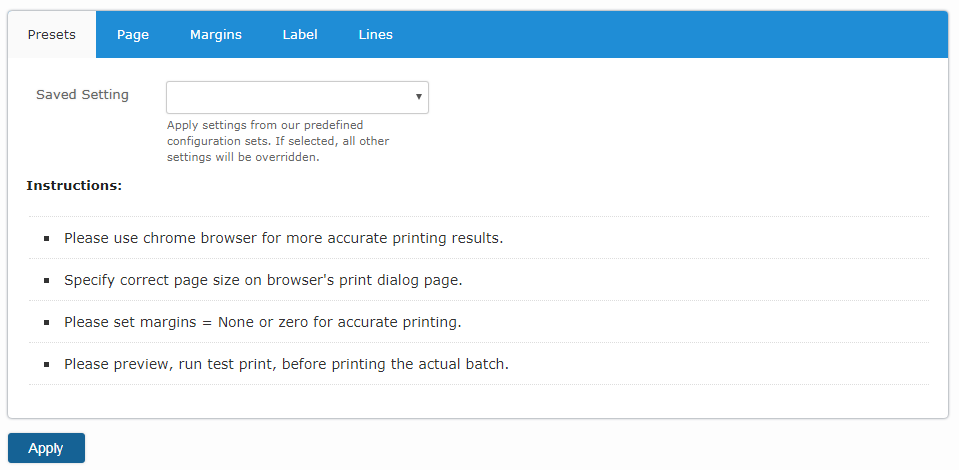
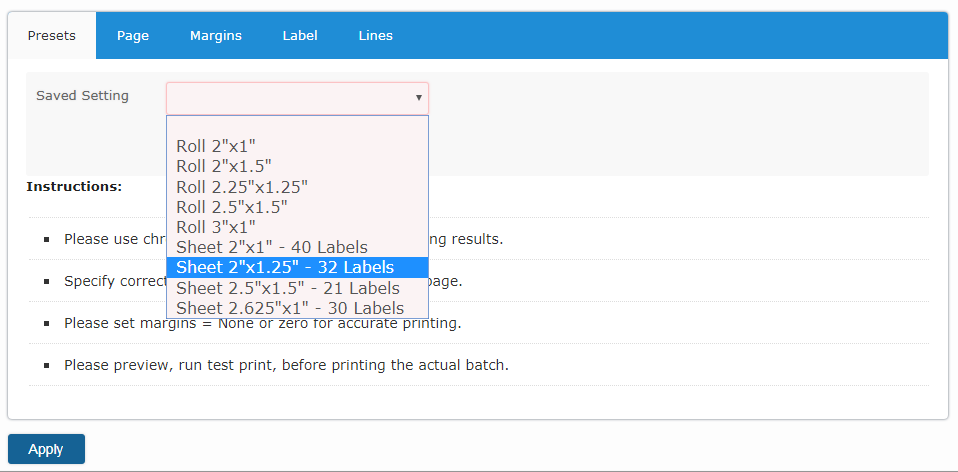
Update new barcode labels

diff --git a/docs/barcode-labels.md b/docs/barcode-labels.md
@@ -67,6 +67,7 @@ To Generate Barcodes, please follow the below steps:
 
 * Select the desired `Code Type` by default CODE 128 is selected. We suggest to use CODE 128 or CODE 39 for better scannability.
 
+     ![Barcode Labels code type](img/barcode-labels-code-type.png)
      
 
 * You can specify the `Width Factor` and `Height` for your barcode image.
@@ -105,7 +106,7 @@ To print the barcodes you have to follow the below steps:
      ![Barcode Labels page presets](img/barcode-labels-page-presets.png)
 
 
-* Select a pre configured print setting from the `Saved Setting` drop down and click `Apply`.
+* Select a pre configured print setting from the `Saved Setting` drop down and click `Apply`. We have some common label settings for Roll type and Sheet type barcode label.
 * A page will appear like below. If you come to this section later times, you will land on this print layout page by default.
 
       ![Barcode Labels print barcodes](img/barcode-labels-print-barcodes.png)
@@ -126,9 +127,10 @@ To print the barcodes you have to follow the below steps:
 
 ### Custom Print Settings
 
-* You can also apply your custom `Page Settings` to print customized barcodes.
+ You can also apply your custom `Page Settings` to print customized barcodes.
 
 
+* Click on `Page Settings` button.
 * If you click on `Page` option then it will be appear like below.
 
 
@@ -151,6 +153,7 @@ To print the barcodes you have to follow the below steps:
      ![Barcode Labels page lines](img/barcode-labels-page-lines.png)
 
 * In this page you can apply lines per your need.
+* When you are done, click `Apply` button to see your changes in prints layouts.
 
 ## Complete Printing and Start New Queue
 
@@ -164,4 +167,5 @@ To do so, please follow the below steps:
 
 * All your generated barcode labels will be marked as completed and the `Print Barcodes` will become empty.
 * Now you can generate new barcodes like before.
+
 
